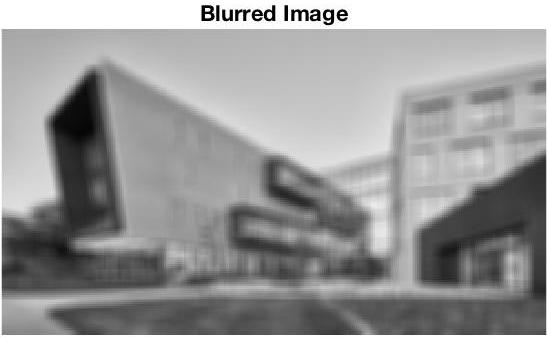
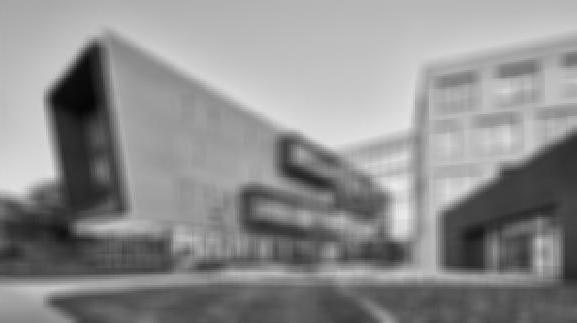
INITPSF

diff --git a/hw3/canny.m b/hw3/canny.m
@@ -63,7 +63,7 @@ lines = houghlines(BW,theta,rho,P, 'FillGap', 5, 'MinLength', 7);
 
 PSF = fspecial('gaussian',7,10);
 Blurred = imfilter(grey,PSF,'symmetric','conv');
-% imshow(Blurred)
+imshow(Blurred)
 % title('Blurred Image')
 
 UNDERPSF = ones(size(PSF)-4);
@@ -76,4 +76,4 @@ OVERPSF = padarray(UNDERPSF,[4 4],'replicate','both');
 
 INITPSF = padarray(UNDERPSF,[2 2],'replicate','both');
 [J3,P3] = deconvblind(Blurred,INITPSF);
-imshow(J3)
+%imshow(J3)
